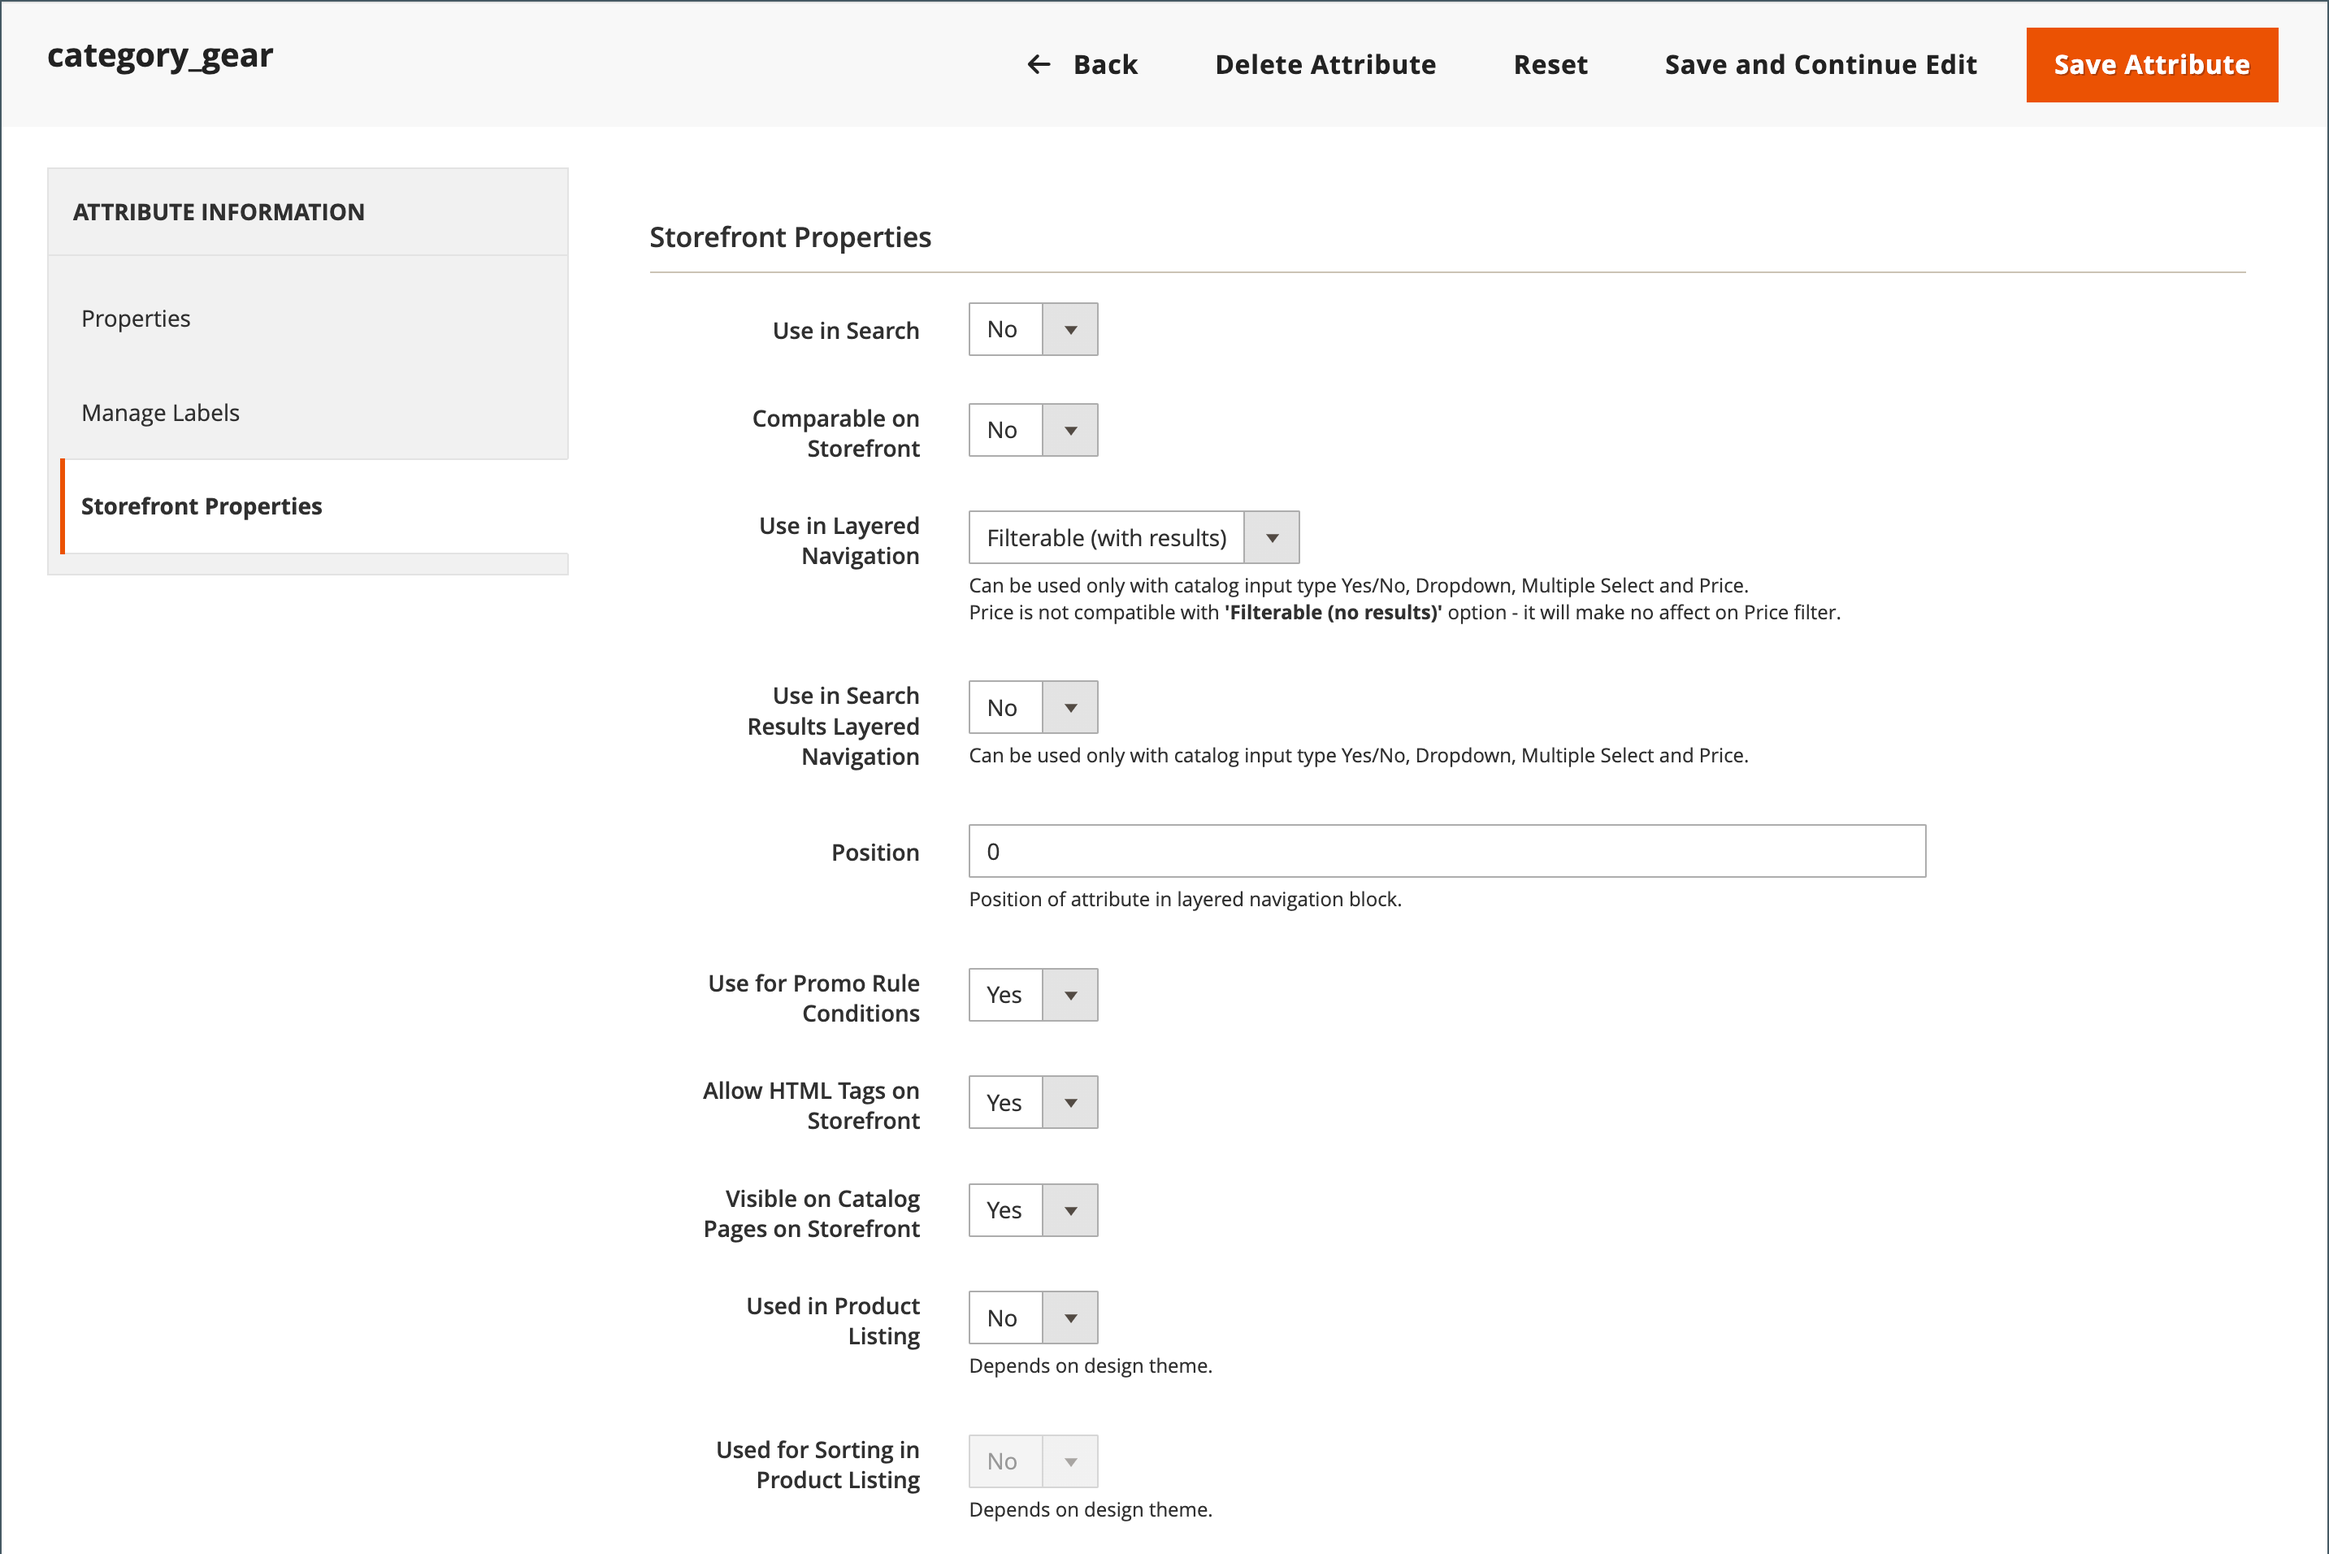
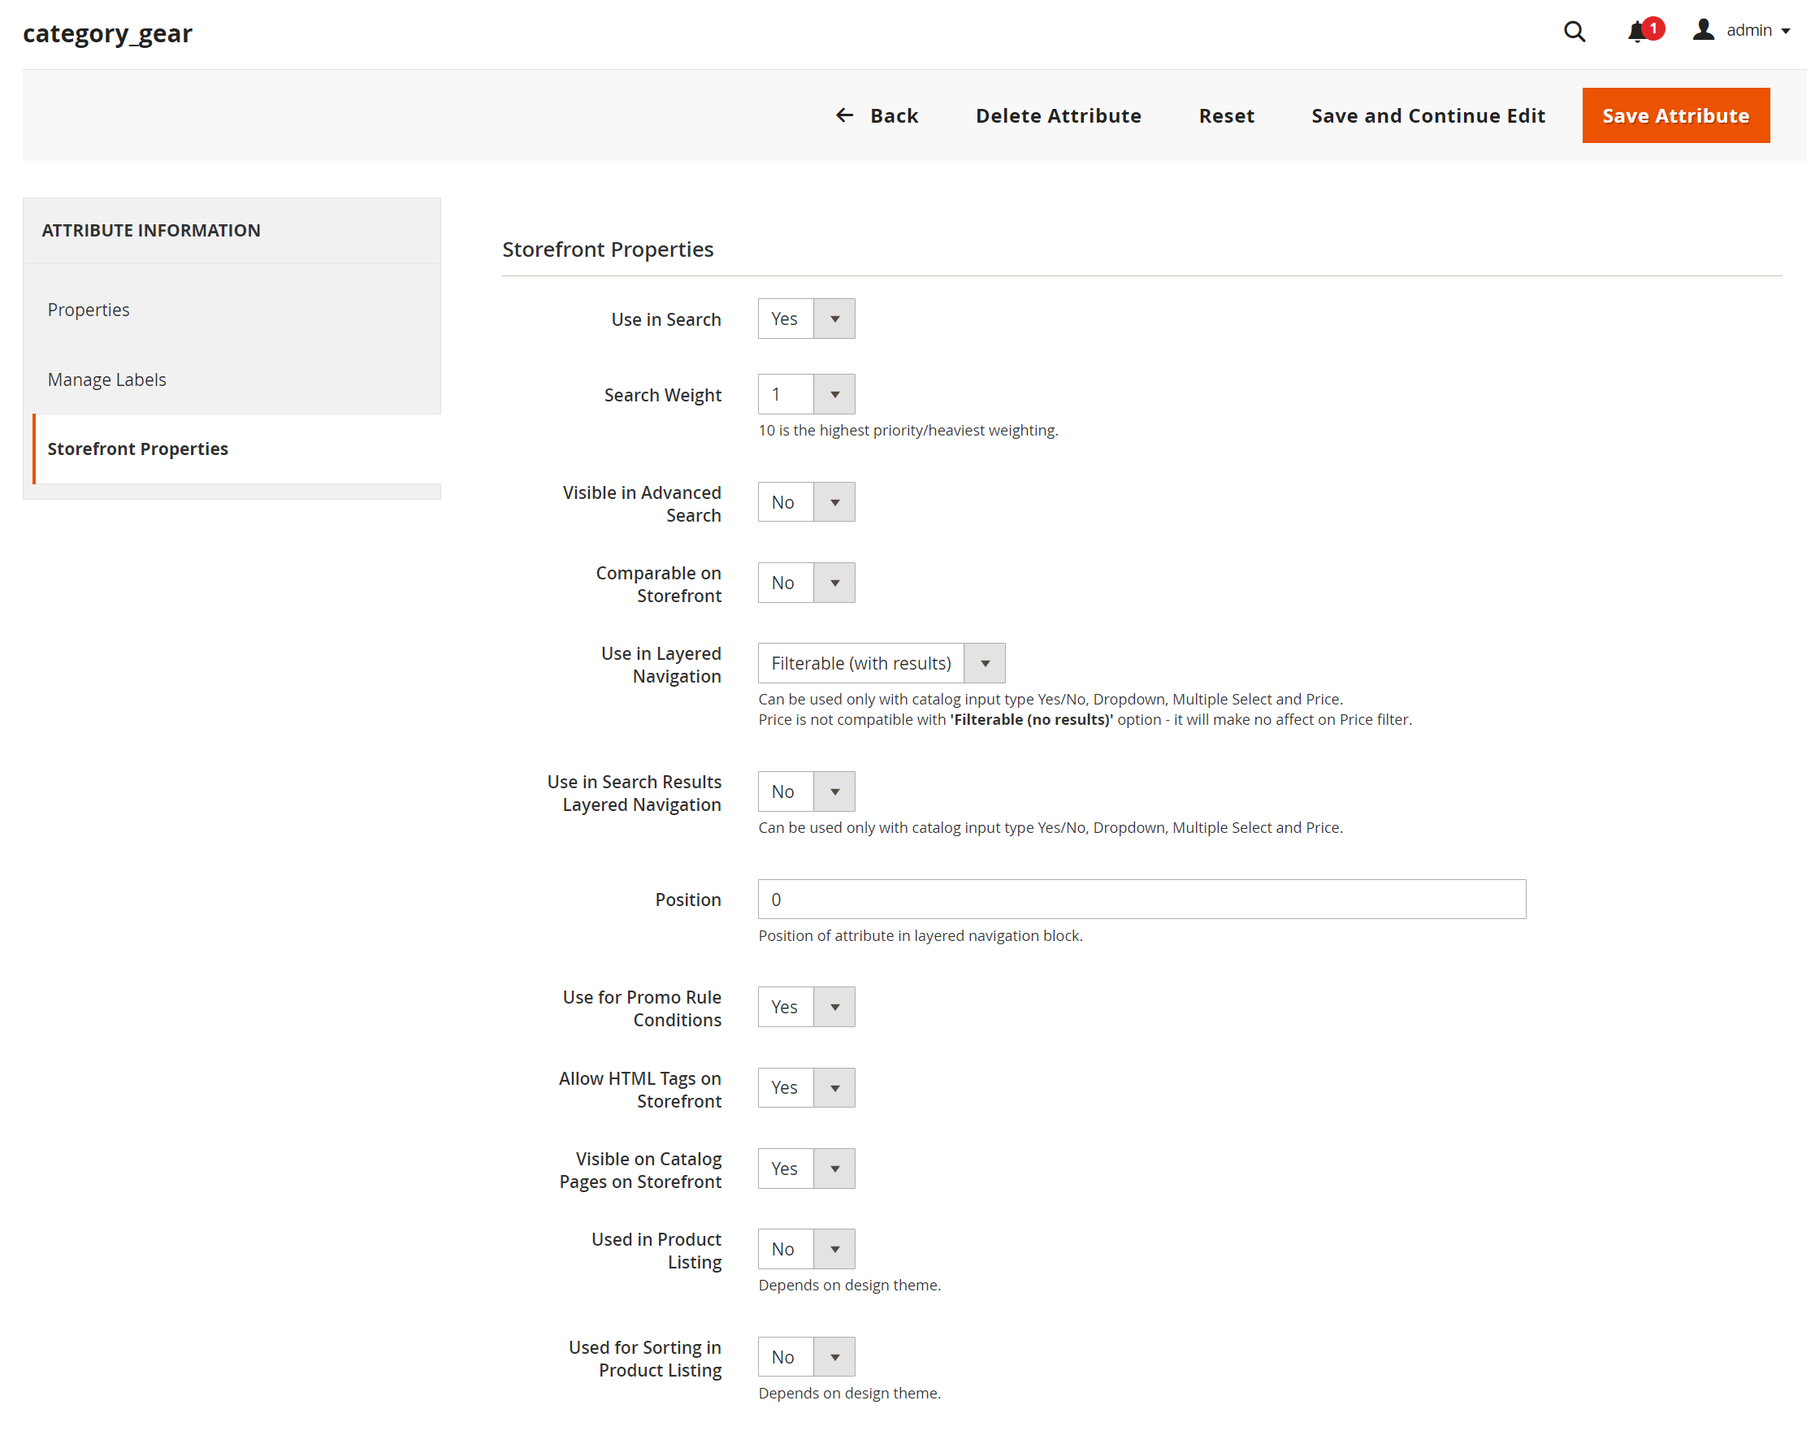
ACP2E-2158: [Documentation] Update product attribute documentation to include changes from ACP2E-2153 ticket.

diff --git a/help/catalog/product-attributes-add.md b/help/catalog/product-attributes-add.md
@@ -107,9 +107,17 @@ Although attributes are managed primarily from the [Stores](../stores-purchase/s
 
    - `Filterable (no results)` - Layered navigation includes filters for all available attribute values and their product counts, including the products with zero (0) product matches. If the attribute value is a swatch, the value appears as a filter, but is crossed out.
 
-1. To use in layered navigation on search results pages, set **[!UICONTROL Use in Search Results Navigation]** to `Yes` and enter a number in the **[!UICONTROL Position]** field.
+>[!NOTE]
+>
+>When [!UICONTROL Use in Search] setting is set to `No` then [!UICONTROL Use in Search Results Layered Navigation] setting is not displayed, and product attribute is not used in the search with any [!UICONTROL Use in Layered Navigation] setting value.
+
+1. To use in layered navigation on search results pages, set **[!UICONTROL Use in Search Results Layered Navigation]** to `Yes` and enter a number in the **[!UICONTROL Position]** field.
 
    The position number indicates the relative position of the attribute within the layered navigation block.
+
+   >[!NOTE]
+   >
+   >The [!UICONTROL Position] field is dimmed by default, so you must save the attribute before you can modify this setting.
 
 1. To use the attribute in price rules, set **[!UICONTROL Use for Promo Rule Conditions]** to `Yes`.
 

diff --git a/help/catalog/navigation-layered.md b/help/catalog/navigation-layered.md
@@ -56,6 +56,10 @@ The following instructions show how to set up basic layered navigation with filt
 
 >[!NOTE]
 >
+>When [!UICONTROL Use in Search] setting is set to `No` then [!UICONTROL Use in Search Results Layered Navigation] setting is not displayed, and product attribute is not used in the search with any [!UICONTROL Use in Layered Navigation] setting value.
+
+>[!NOTE]
+>
 >The [!UICONTROL Position] field is dimmed by default, so you must save the attribute before you can modify this setting.
 
 ## Step 2: Make the category an anchor
